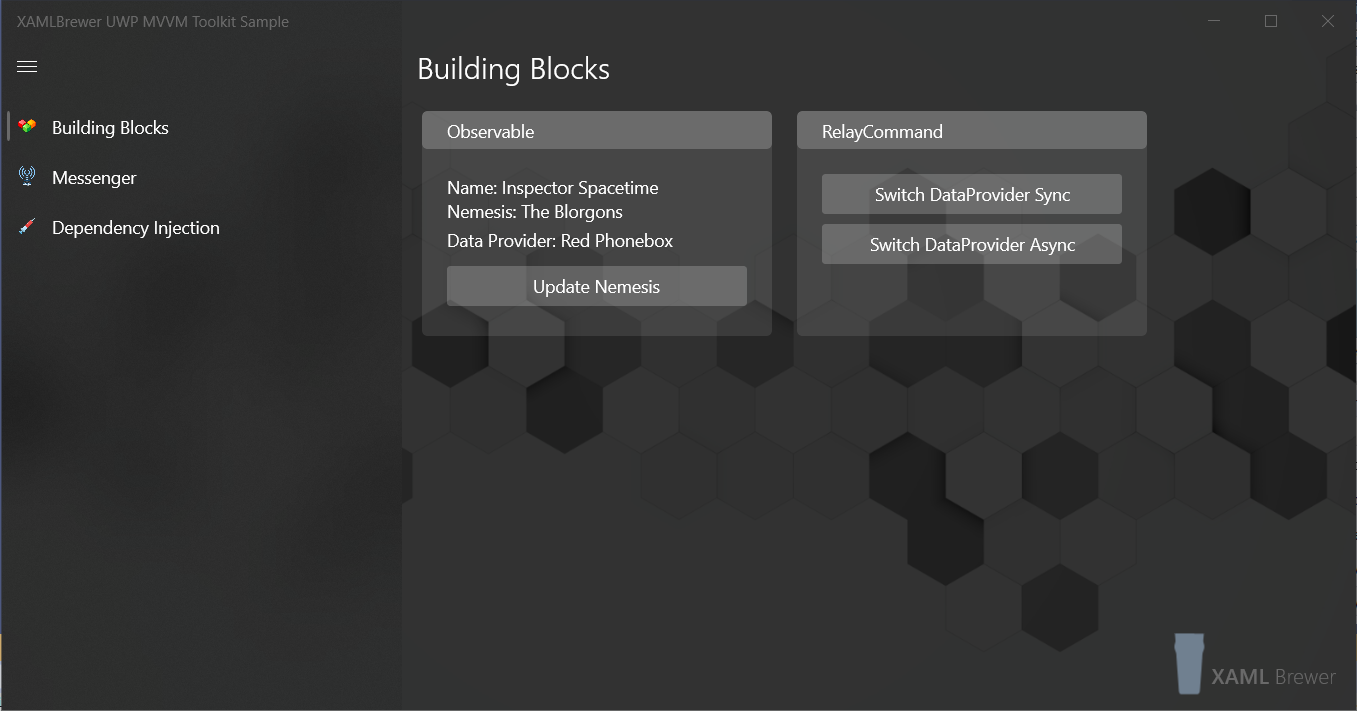
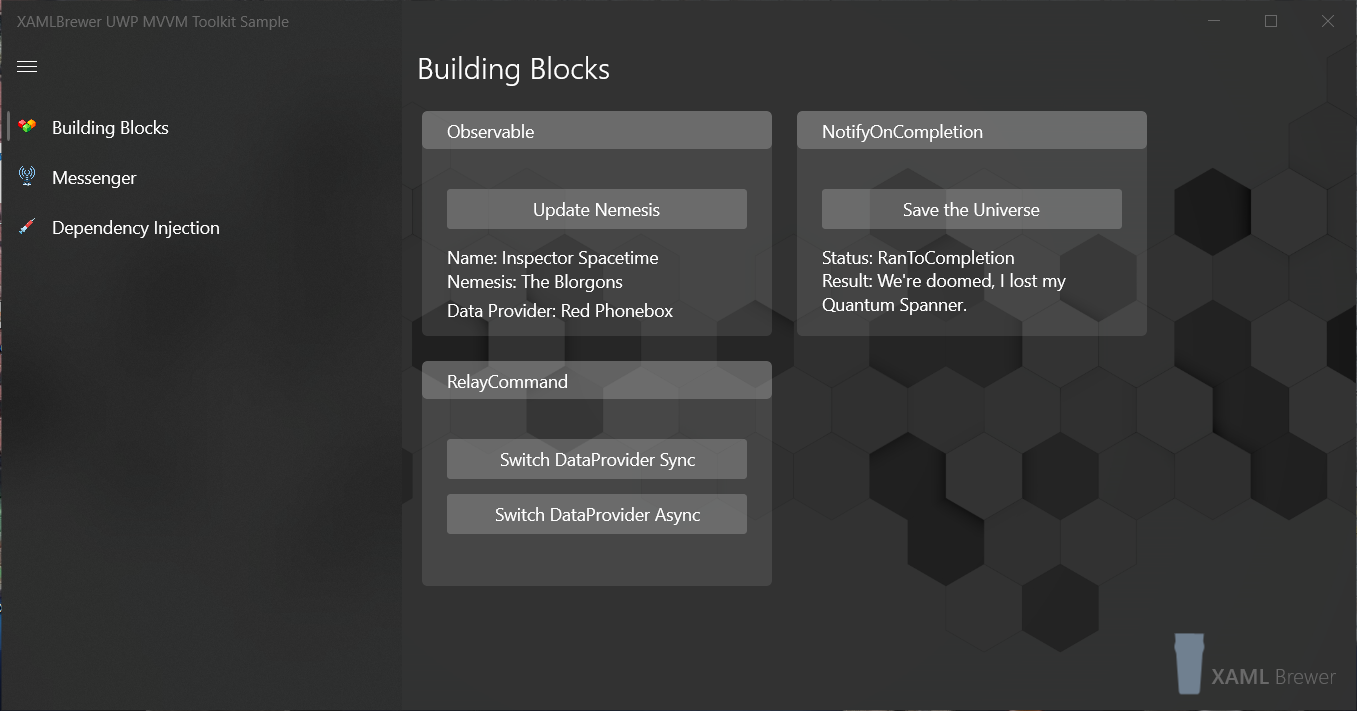
Building blocks page: added an example of SetAndNotifyOnCompletion().

diff --git a/XamlBrewer.UWP.MvvmToolkit.Sample/Views/BuildingBlocksPage.xaml b/XamlBrewer.UWP.MvvmToolkit.Sample/Views/BuildingBlocksPage.xaml
@@ -39,12 +39,44 @@
                 <StackPanel VerticalAlignment="Top"
                             Padding="20"
                             Grid.Row="1">
-                    <TextBlock><Run Text="Name: " /><Run Text="{x:Bind ViewModel.SuperHero.Name, Mode=OneWay}" /></TextBlock>
-                    <TextBlock><Run Text="Nemesis: " /><Run Text="{x:Bind ViewModel.SuperHero.Nemesis, Mode=OneWay}" /></TextBlock>
-                    <TextBlock Margin="0 4 0 0"><Run Text="Data Provider: " /><Run Text="{x:Bind ViewModel.DataProvider.Description, Mode=OneWay}" /></TextBlock>
                     <Button Click="Button_Click"
                             HorizontalAlignment="Stretch"
                             Margin="0 12">Update Nemesis</Button>
+                    <TextBlock><Run Text="Name: " /><Run Text="{x:Bind ViewModel.SuperHero.Name, Mode=OneWay}" /></TextBlock>
+                    <TextBlock><Run Text="Nemesis: " /><Run Text="{x:Bind ViewModel.SuperHero.Nemesis, Mode=OneWay}" /></TextBlock>
+                    <TextBlock Margin="0 4 0 0"><Run Text="Data Provider: " /><Run Text="{x:Bind ViewModel.DataProvider.Description, Mode=OneWay}" /></TextBlock>
+                </StackPanel>
+            </Grid>
+            <Grid Padding="0 0 20 20">
+                <Grid.RowDefinitions>
+                    <RowDefinition Height="auto" />
+                    <RowDefinition Height="*" />
+                </Grid.RowDefinitions>
+                <Border CornerRadius="4"
+                        Grid.RowSpan="2">
+                    <Border.Background>
+                        <SolidColorBrush Color="White"
+                                         Opacity=".1" />
+                    </Border.Background>
+                </Border>
+
+                <Border CornerRadius="4"
+                        Height="30">
+                    <Border.Background>
+                        <SolidColorBrush Color="White"
+                                         Opacity=".2" />
+                    </Border.Background>
+                    <TextBlock VerticalAlignment="Center"
+                               Padding="20 4">NotifyOnCompletion</TextBlock>
+                </Border>
+                <StackPanel VerticalAlignment="Top"
+                            Padding="20"
+                            Grid.Row="1">
+                    <Button Click="TaskButton_Click"
+                            HorizontalAlignment="Stretch"
+                            Margin="0 12">Save the Universe</Button>
+                    <TextBlock><Run Text="Status: " /><Run Text="{x:Bind ViewModel.SaveTheUniverseTask.Status, Mode=OneWay}" /></TextBlock>
+                    <TextBlock TextWrapping="Wrap"><Run Text="Result: " /><Run Text="{x:Bind ViewModel.SaveTheUniverseTaskResult, Mode=OneWay}" /></TextBlock>
                 </StackPanel>
             </Grid>
             <Grid Padding="0 0 20 20">
@@ -73,10 +105,10 @@
                             Padding="20"
                             Grid.Row="1">
                     <Button Command="{x:Bind ViewModel.SwitchDataProviderCommand}"
-                            HorizontalAlignment="Stretch">Switch DataProvider Sync</Button>
-                    <Button Command="{x:Bind ViewModel.SwitchDataProviderAsyncCommand}"
                             HorizontalAlignment="Stretch"
-                            Margin="0 8">Switch DataProvider Async</Button>
+                            Margin="0 12">Switch DataProvider Sync</Button>
+                    <Button Command="{x:Bind ViewModel.SwitchDataProviderAsyncCommand}"
+                            HorizontalAlignment="Stretch">Switch DataProvider Async</Button>
                 </StackPanel>
             </Grid>
         </VariableSizedWrapGrid>

diff --git a/XamlBrewer.UWP.MvvmToolkit.Sample/ViewModels/BuildingBlocksPageViewModel.cs b/XamlBrewer.UWP.MvvmToolkit.Sample/ViewModels/BuildingBlocksPageViewModel.cs
@@ -1,4 +1,5 @@
 using Microsoft.Toolkit.Mvvm.Input;
+using System;
 using System.Threading.Tasks;
 using System.Windows.Input;
 using XamlBrewer.UWP.MvvmToolkit.Sample.Models;
@@ -10,6 +11,8 @@ namespace XamlBrewer.UWP.MvvmToolkit.Sample.ViewModels
     {
         private SuperHero _superHero;
         private IDataProvider _dataProvider;
+        private Task<string> _saveTheUniverseTask = Task.FromResult<string>("?");
+        private Random rnd = new Random();
 
         public BuildingBlocksPageViewModel()
         {
@@ -17,6 +20,16 @@ namespace XamlBrewer.UWP.MvvmToolkit.Sample.ViewModels
             _superHero = _dataProvider.SuperHero();
             SwitchDataProviderCommand = new RelayCommand(SwitchDataProvider);
             SwitchDataProviderAsyncCommand = new AsyncRelayCommand(SwitchDataProviderAsync);
+
+            this.PropertyChanged += BuildingBlocksPageViewModel_PropertyChanged;
+        }
+
+        private void BuildingBlocksPageViewModel_PropertyChanged(object sender, System.ComponentModel.PropertyChangedEventArgs e)
+        {
+            if (e.PropertyName == nameof(SaveTheUniverseTask))
+            {
+                OnPropertyChanged(nameof(SaveTheUniverseTaskResult));
+            }
         }
 
         public IDataProvider DataProvider
@@ -32,7 +45,41 @@ namespace XamlBrewer.UWP.MvvmToolkit.Sample.ViewModels
         }
 
         public ICommand SwitchDataProviderCommand { get; }
+
         public IAsyncRelayCommand SwitchDataProviderAsyncCommand { get; }
+
+        public Task<string> SaveTheUniverseTask
+        {
+            get => _saveTheUniverseTask;
+            private set
+            {
+                SetAndNotifyOnCompletion(ref _saveTheUniverseTask, () => _saveTheUniverseTask, value);
+            }
+        }
+
+        public string SaveTheUniverseTaskResult => _saveTheUniverseTask.Status == TaskStatus.RanToCompletion ? _saveTheUniverseTask.Result : "(hold you breath)";
+
+        public async void SaveTheUniverse()
+        {
+            SaveTheUniverseTask = new Task<string>(
+                () =>
+                {
+                    // Time travellers can save the world in 3 seconds.
+                    Task.Delay(3000).Wait();
+
+                    if (rnd.Next(2) > 0)
+                    {
+                        return $"We're doomed, I lost my {SuperHero.Tool}.";
+                    }
+
+                    return "We're saved ... this time.";
+                }
+            );
+
+            await Task.Delay(1000); // To see the Created state before starting.
+            _saveTheUniverseTask.Start();
+            OnPropertyChanged(nameof(SaveTheUniverseTask)); // To see more than 'Created' and 'Completed'
+        }
 
         private void SwitchDataProvider()
         {

diff --git a/XamlBrewer.UWP.MvvmToolkit.Sample/Views/BuildingBlocksPage.xaml.cs b/XamlBrewer.UWP.MvvmToolkit.Sample/Views/BuildingBlocksPage.xaml.cs
@@ -1,6 +1,5 @@
 using System;
 using System.Collections.Generic;
-using System.Runtime.CompilerServices;
 using Windows.UI.Xaml.Controls;
 
 namespace XamlBrewer.UWP.MvvmToolkit.Sample.Views
@@ -27,6 +26,11 @@ namespace XamlBrewer.UWP.MvvmToolkit.Sample.Views
         private void Button_Click(object sender, Windows.UI.Xaml.RoutedEventArgs e)
         {
             ViewModel.SuperHero.Nemesis = _nemeses[rnd.Next(0, 5)];
+        }
+
+        private void TaskButton_Click(object sender, Windows.UI.Xaml.RoutedEventArgs e)
+        {
+            ViewModel.SaveTheUniverse();
         }
     }
 }

diff --git a/XamlBrewer.UWP.MvvmToolkit.Sample/Models/SuperHero.cs b/XamlBrewer.UWP.MvvmToolkit.Sample/Models/SuperHero.cs
@@ -7,6 +7,9 @@ namespace XamlBrewer.UWP.MvvmToolkit.Sample.Models
         private string _name;
         private string _nemesis;
 
+        public SuperHero()
+        { }
+
         public string Name
         {
             get => _name;
@@ -18,5 +21,7 @@ namespace XamlBrewer.UWP.MvvmToolkit.Sample.Models
             get => _nemesis;
             set => Set(ref _nemesis, value);
         }
+
+        public string Tool { get; set; }
     }
 }

diff --git a/XamlBrewer.UWP.MvvmToolkit.Sample/Services/RedDataProvider.cs b/XamlBrewer.UWP.MvvmToolkit.Sample/Services/RedDataProvider.cs
@@ -11,7 +11,8 @@ namespace XamlBrewer.UWP.MvvmToolkit.Sample.Services
             return new SuperHero
             {
                 Name = "Inspector Spacetime",
-                Nemesis = "The Blorgons"
+                Nemesis = "The Blorgons",
+                Tool = "Quantum Spanner"
             };
         }
     }

diff --git a/XamlBrewer.UWP.MvvmToolkit.Sample/Services/BlueDataProvider.cs b/XamlBrewer.UWP.MvvmToolkit.Sample/Services/BlueDataProvider.cs
@@ -11,7 +11,8 @@ namespace XamlBrewer.UWP.MvvmToolkit.Sample.Services
             return new SuperHero
             {
                 Name = "Doctor Who",
-                Nemesis = "The Daleks"
+                Nemesis = "The Daleks",
+                Tool = "Sonic Screwdriver"
             };
         }
     }
